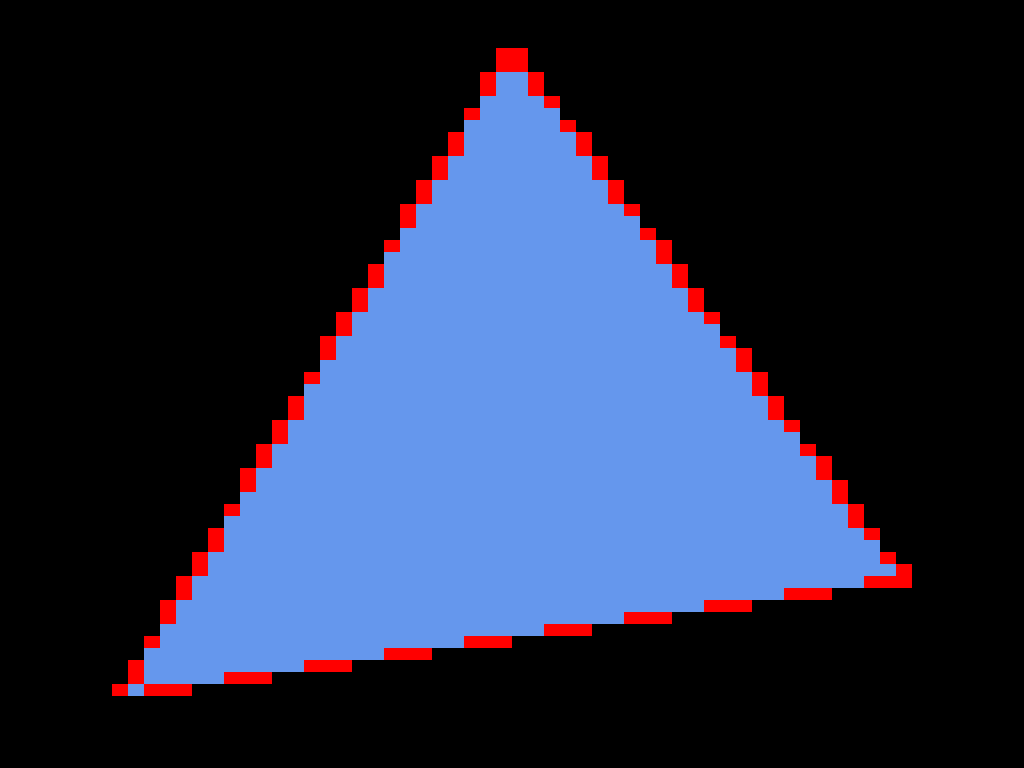
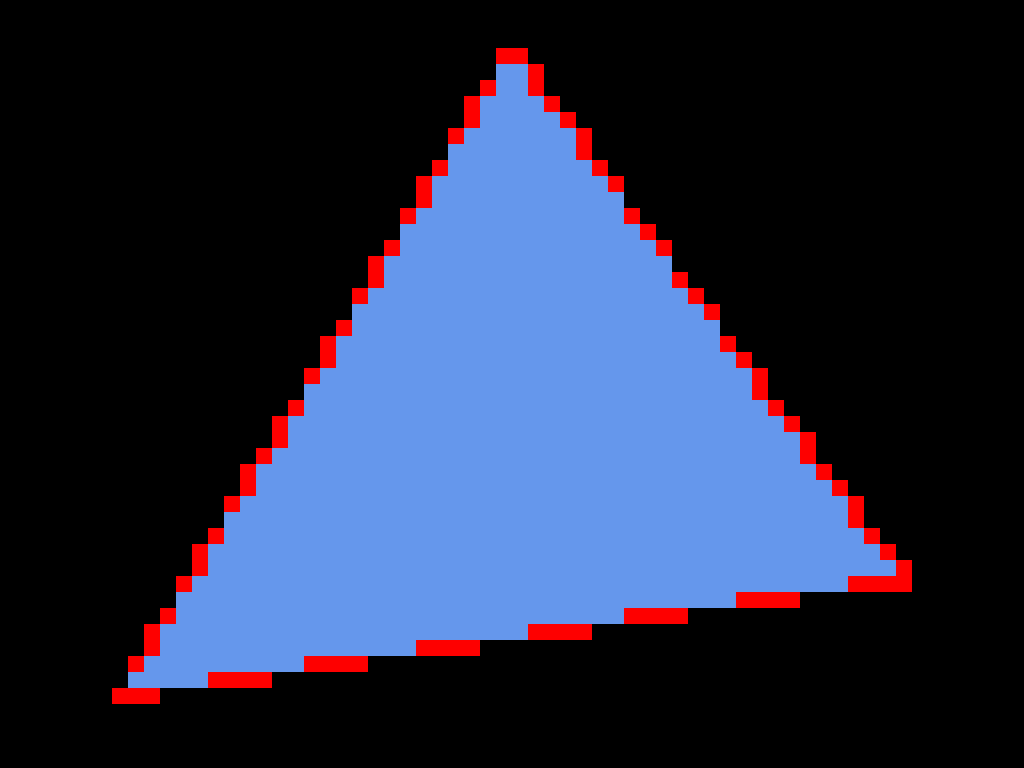
[example] fix conserative-raster low res target getting zero sized on resize (#2318)
* [example] fix conserative-faster low res target getting zero sized on resize

* [sample] conservative-raster: fix low res target aspect ratio being wrong

diff --git a/wgpu/examples/conservative-raster/main.rs b/wgpu/examples/conservative-raster/main.rs
@@ -26,8 +26,8 @@ impl Example {
             .create_texture(&wgpu::TextureDescriptor {
                 label: Some("Low Resolution Target"),
                 size: wgpu::Extent3d {
-                    width: config.width / 16,
-                    height: config.width / 16,
+                    width: (config.width / 16).max(1),
+                    height: (config.height / 16).max(1),
                     depth_or_array_layers: 1,
                 },
                 mip_level_count: 1,
